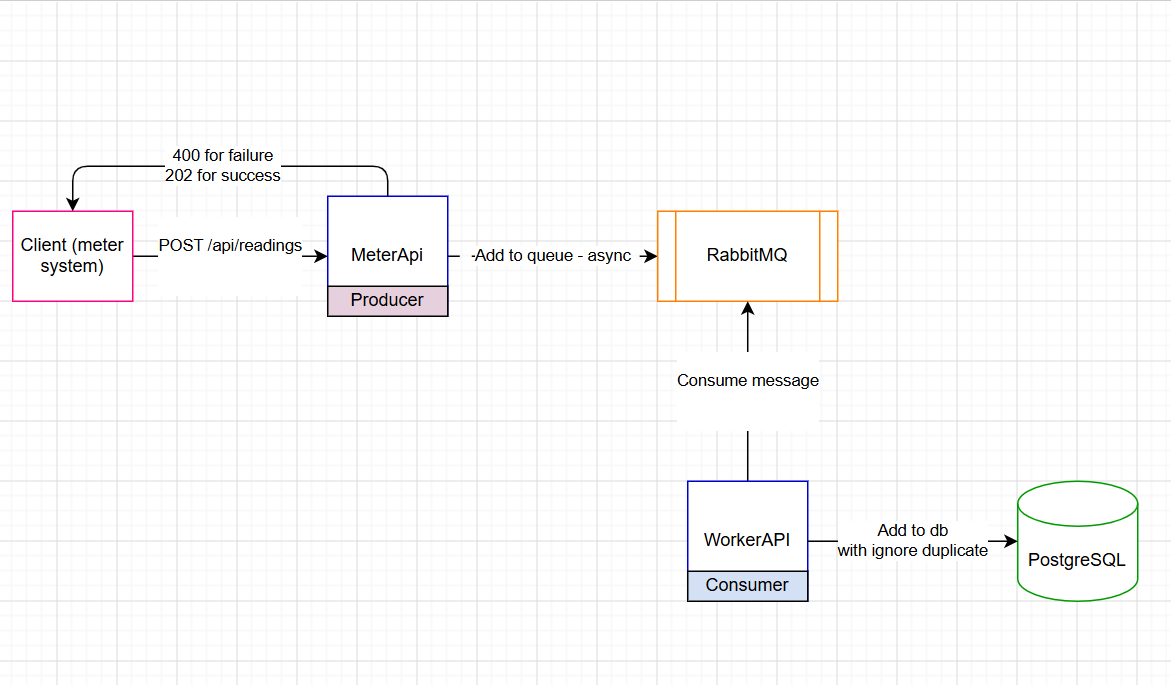
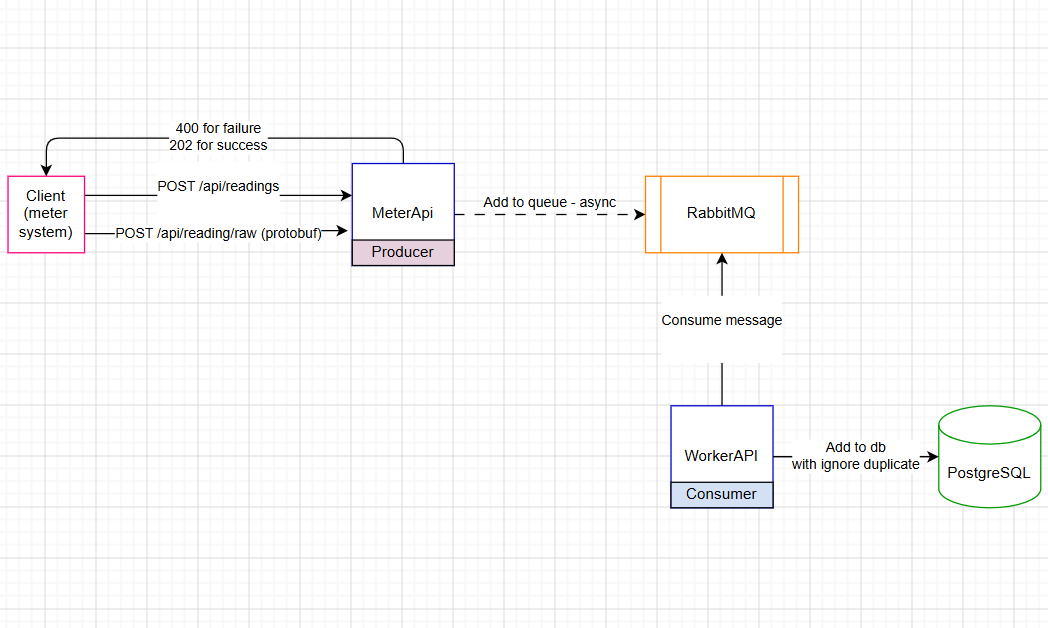
Update README and architecture diagram to include raw endpoint

diff --git a/README.md b/README.md
@@ -48,6 +48,15 @@ Send a POST request to `/api/readings`:
 
 A `202 Accepted` response means the reading was queued successfully.
 
+Or send a Base64-encoded protobuf payload to `/api/readings/raw`:
+
+```json
+{
+  "meter_number": 12345,
+  "data": "ChEKBgik9unNBhEK16NwPUqTQAoRCgYIoO/pzQYR16NwPQpKk0A="
+}
+```
+
 ## Verifying Data in PostgreSQL
 
 ```bash
@@ -64,9 +73,7 @@ kubectl exec -it deployment/postgres -- psql -U postgres -d meters -c "SELECT * 
 
 - **Shared MeterData model** — used a single shared model between the API and Worker services. A separate HTTP DTO layer could have been introduced, but since both structures are currently identical, a shared model kept the implementation simpler and easier to maintain
 
-## What's Next
-
-- `POST /api/readings/raw` (optional) — not yet implemented due to time constraints. Would parse a Base64-encoded protobuf payload using `Google.Protobuf`, convert it to `MeterData`, and publish to the same queue as the standard endpoint.
+- **POST /api/readings/raw** — accepts a JSON payload containing a Base64-encoded protobuf message. The protobuf schema is defined in `Protos/meter_data.proto`, and the corresponding C# classes are generated automatically at build time using `Grpc.Tools`. After decoding and deserialization, the readings are converted into `MeterData` and published to the same RabbitMQ queue used by the standard endpoint.
 
 ## Architecture Diagram
 
